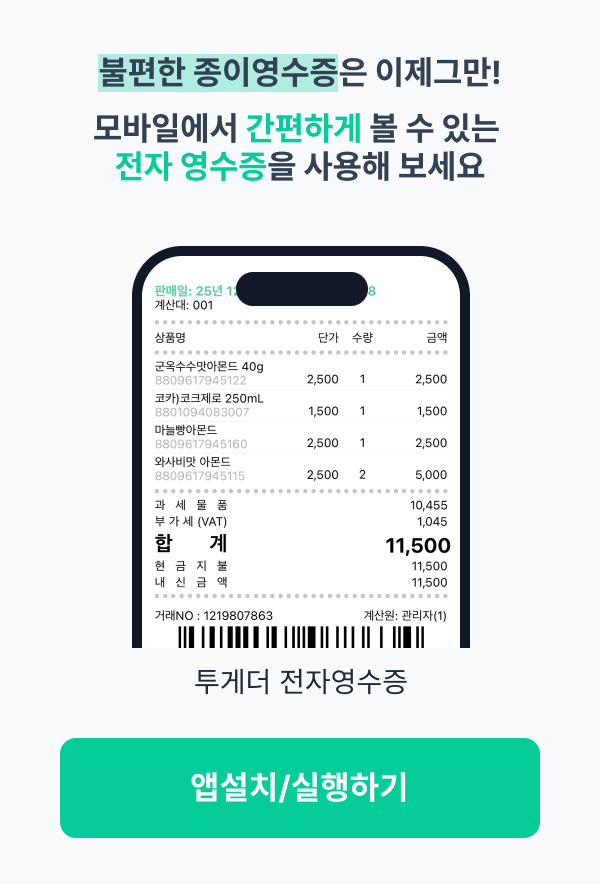
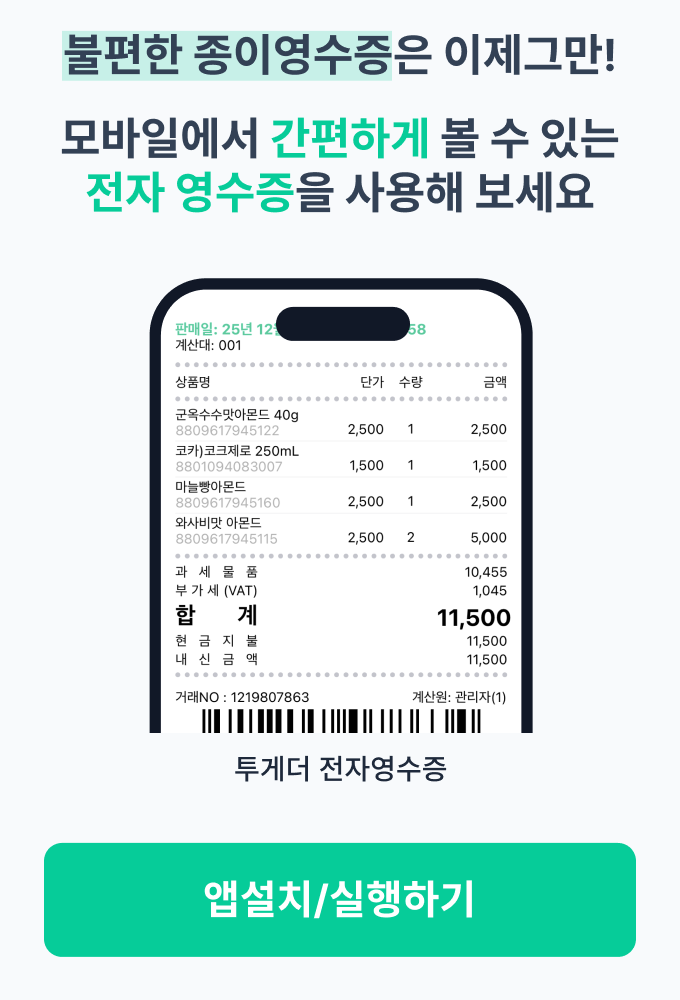
fix: 광고 배너의 너비 조정 및 이미지 변경

diff --git a/app/component/AdPopup.js b/app/component/AdPopup.js
@@ -29,7 +29,7 @@ export default function AdPopup({ open, adPopData, onClose, onHideToday }) {
 
   return (
     <div className="fixed inset-0 z-50 flex items-center justify-center bg-black/60 p-4">
-      <div className="relative w-full max-w-md overflow-hidden rounded-2xl bg-white shadow-xl">
+      <div className="relative w-85 max-w-md overflow-hidden rounded-2xl bg-white shadow-xl">
         <div className="w-full">
           <a href={adPopData.deepLink} onClick={handleDeepLink}>
           <img
